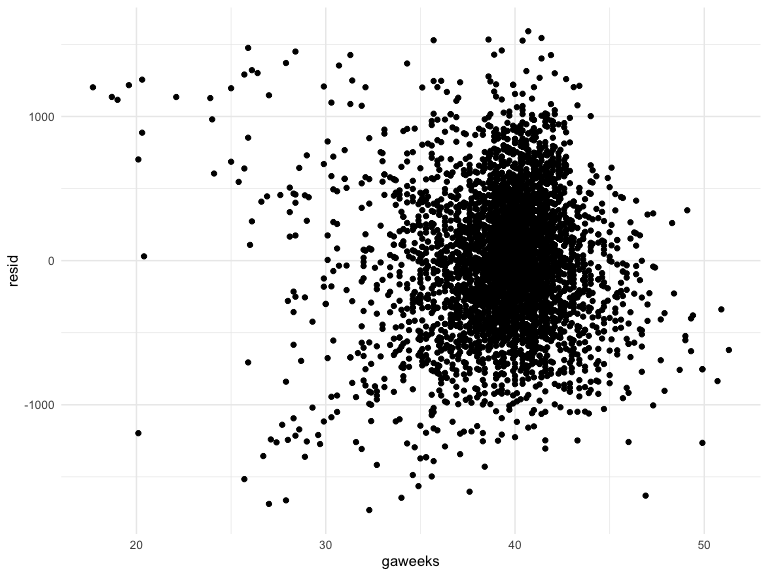
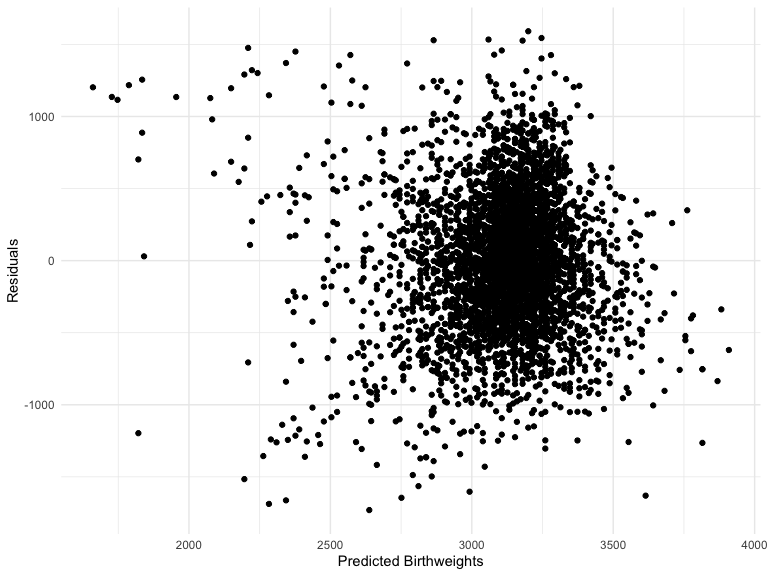
tidied up the birthweight dataset, created a prediciton vs residual plot, created rmse comparison plot, loaded in data for problem 3

diff --git a/p8105_hw6_ar4041.md b/p8105_hw6_ar4041.md
@@ -78,7 +78,7 @@ estimate_plot =
     geom_errorbar(aes(ymin = CI_lower, ymax = CI_upper)) + 
     theme(axis.text.x = element_text(angle = 90, hjust = 1)) +
     labs(
-    x = "City, State")
+      x = "City, State")
 
 estimate_plot
 ```
@@ -93,11 +93,35 @@ significantly high. The city with the lowest odds ratio is Tampa.
 
 ## Problem 2
 
-Find some residuals
+Reading in birthweight data
 
 ``` r
 baby_df = 
-  read_csv("./data/birthweight.csv")
+  read_csv("./data/birthweight.csv") %>% 
+  mutate(
+    babysex = case_when(
+      babysex == 1 ~ "male",
+      babysex == 2 ~ "female"
+    ),
+    frace = case_when(
+      frace == 1 ~ "White",
+      frace == 2 ~ "Black",
+      frace == 3 ~ "Asian",
+      frace == 4 ~ "Puerto Rican",
+      frace == 8 ~ "Other",
+      frace == 9 ~ "Unknown"
+    ),
+     mrace = case_when(
+      mrace == 1 ~ "White",
+      mrace == 2 ~ "Black",
+      mrace == 3 ~ "Asian",
+      mrace == 4 ~ "Puerto Rican",
+      mrace == 8 ~ "Other"
+    ),
+    malform = case_when(
+      malform == 0 ~ "absent",
+      malform == 1 ~ "present"
+    ))
 ```
 
     ## Parsed with column specification:
@@ -107,17 +131,92 @@ baby_df =
 
     ## See spec(...) for full column specifications.
 
-model fitting
+Creating an initial model
 
 ``` r
-model_fit = lm(bwt ~ gaweeks, data = baby_df)
+model_test = lm(bwt ~ gaweeks, data = baby_df)
 ```
 
+Making a prediction vs residual plot
+
 ``` r
-baby_df %>% 
-  modelr::add_residuals(model_fit) %>% 
-  ggplot(aes(x = gaweeks, y = resid)) + 
-  geom_point()
+pred_resid_plot = 
+  baby_df %>% 
+    add_predictions(model_test) %>%
+    add_residuals(model_test) %>% 
+    ggplot(aes(x = pred, y = resid)) + 
+    geom_point() +
+    labs(
+      x = "Predicted Birthweights",
+      y = "Residuals")
+  
+pred_resid_plot
 ```
 
 <img src="p8105_hw6_ar4041_files/figure-gfm/unnamed-chunk-7-1.png" width="90%" />
+
+Cross-validation
+
+``` r
+cv_df =
+  crossv_mc(baby_df, 100, test = 0.2, id = "model_id") %>% 
+  mutate(
+    train = map(train, as_tibble),
+    test = map(test, as_tibble))
+
+cv_df = 
+  cv_df %>% 
+  mutate(
+    model_test_1  = map(train, ~lm(bwt ~ gaweeks, data = .x)),
+    model_test_2 = map(train, ~lm(bwt ~  blength + gaweeks, data = .x)),
+    model_test_3  = map(train, ~lm(bwt ~ bhead * blength * babysex, data = .x))) %>% 
+  mutate(
+    rmse_test_1 = map2_dbl(model_test_1, test, ~rmse(model = .x, data = .y)),
+    rmse_test_2 = map2_dbl(model_test_2, test, ~rmse(model = .x, data = .y)),
+    rmse_test_3 = map2_dbl(model_test_3, test, ~rmse(model = .x, data = .y)))
+
+rmse_plot = 
+  cv_df %>% 
+    select(starts_with("rmse")) %>% 
+    pivot_longer(
+      everything(),
+      names_to = "model", 
+      values_to = "rmse",
+      names_prefix = "rmse_") %>% 
+    mutate(
+      model = fct_inorder(model)) %>% 
+    ggplot(aes(x = model, y = rmse)) + 
+    geom_violin()
+
+rmse_plot
+```
+
+<img src="p8105_hw6_ar4041_files/figure-gfm/unnamed-chunk-8-1.png" width="90%" />
+
+# Problem 3
+
+Loading in the data
+
+``` r
+weather_df = 
+  rnoaa::meteo_pull_monitors(
+    c("USW00094728"),
+    var = c("PRCP", "TMIN", "TMAX"), 
+    date_min = "2017-01-01",
+    date_max = "2017-12-31") %>%
+  mutate(
+    name = recode(id, USW00094728 = "CentralPark_NY"),
+    tmin = tmin / 10,
+    tmax = tmax / 10) %>%
+  select(name, id, everything())
+```
+
+    ## Registered S3 method overwritten by 'hoardr':
+    ##   method           from
+    ##   print.cache_info httr
+
+    ## using cached file: /Users/adamrosenfeld/Library/Caches/R/noaa_ghcnd/USW00094728.dly
+
+    ## date created (size, mb): 2020-10-05 21:42:02 (7.522)
+
+    ## file min/max dates: 1869-01-01 / 2020-10-31
